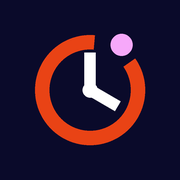
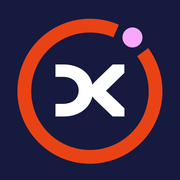
Icône ReechHours d'après la maquette de Julien (cadran orange, point rose, sigle blanc), aussi sur l'écran de connexion
Claude-Session: https://claude.ai/code/session_01Nzkps2RANxyKs4F4KUKyMw

diff --git a/js/ecrans.js b/js/ecrans.js
@@ -5,7 +5,7 @@ import { LIEN_APPLI_ACTUELLE } from './config.js';
 
 export function ecranConnexion({ configure, onConnecter, enCours }) {
   return h('section', { class: 'ecran ecran-centre' },
-    h('div', { class: 'logo', 'aria-hidden': 'true' }, 'H'),
+    h('img', { class: 'logo logo-image', src: 'img/icone-192.png', alt: '' }),
     h('h1', {}, t('connexion.titre')),
     h('p', { class: 'secondaire' }, t('connexion.texte')),
     configure
@@ -23,7 +23,7 @@ export function ecranSheet({ onCreer, onValider, erreur, enCours, formulaireOuve
     onValider(champ.value);
   };
   return h('section', { class: 'ecran ecran-centre' },
-    h('div', { class: 'logo', 'aria-hidden': 'true' }, 'H'),
+    h('img', { class: 'logo logo-image', src: 'img/icone-192.png', alt: '' }),
     h('h1', {}, t('sheet.titre')),
     h('p', { class: 'secondaire' }, t('sheet.creer.texte')),
     erreur ? h('p', { class: 'erreur', role: 'alert' }, erreur) : null,

diff --git a/styles.css b/styles.css
@@ -347,6 +347,7 @@ button:focus-visible, a:focus-visible, input:focus-visible {
   font-weight: 700;
 }
 .logo-gris { background: var(--carte); color: var(--secondaire); }
+.logo-image { display: block; object-fit: cover; background: none; }
 .bouton-principal {
   min-height: 50px;
   padding: 0 24px;
